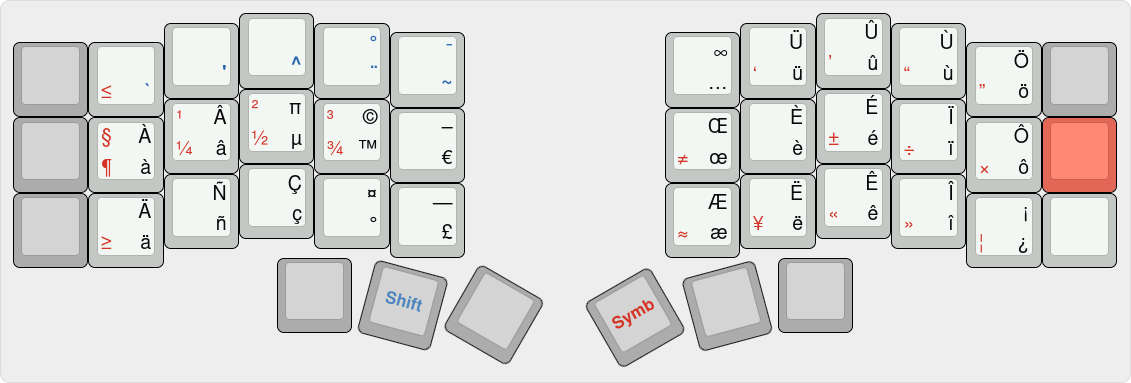
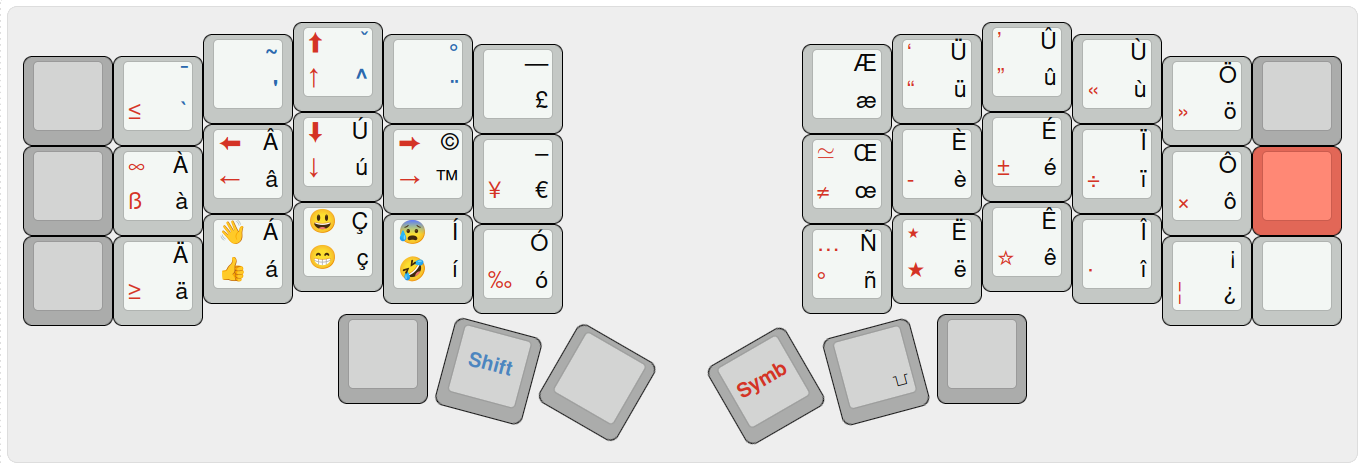
AltGr update.

Changed region(s): [[0.0, 0.0287, 0.9903, 0.9765], [0.9903, 0.0, 1.0, 0.0287], [0.0, 0.0, 0.0309, 0.0287]]

diff --git a/xkb/README_XKB.md b/xkb/README_XKB.md
@@ -1,12 +1,26 @@
 # XKB user configuration
 
+This user-space XKB configuration defines a layout with 8 levels. The base levels are
+unchanged from the default US layout. The other levels are entirely custom.
+
 #### Alternate symbols layout
 
 ![altgr](../img/layout_corne42_altgr.png)
 
+The AltGr symbols (levels 3 and 4), in black in the diagram above, are mostly accented
+characters for French and Spanish. The French accented vowels are grouped around their
+primary characters. The Spanish ones are added where space was available. The layout is
+designed to make sense on a Colemak DH keyboard. When using QWERTY, the groups are broken up.
+
+The levels 5 and 6, in red in the diagram, are extra characters and a few common emojis.
+The Level 5 key is set to `Right Control`.
+
+The levels 7 and 8 are for Greek characters. These levels are accessed by pressing both the 
+keys for Level 3 and Level 5.
+
 #### Installation
 
-### Wayland
+### Wayland & Gnome
 
 Copy the xkb directory to `.config`.
 
@@ -30,7 +44,7 @@ Use `/usr/share/X11/xkb/symbols/us` as a source for the key names.
 
 ### X11
 
-Doesn't work very well!
+I have found the user config to not work very well with X11!
 
 Edit the system file directly: `/usr/share/X11/xkb/symbols/us`.
 

diff --git a/README.md b/README.md
@@ -8,9 +8,11 @@ After using programmable keyboards with QMK or ZMK firmware, the built-in keyboa
 
 ![thinkpad_layout](img/layout_thinkpad.png)
 
-## [XKB user extensions](xkb/README.md)
+## [XKB user extensions](xkb/README_XKB.md)
 
-XKB layouts can be modified by user configuration without modifying system files. See the [XKB page](xkb/README.md).
+XKB layouts can be modified by user configuration without modifying system files. See the [XKB page](xkb/README_XKB.md).
+
+![altgr](img/layout_corne42_altgr.png)
 
 ## run-or-raise Gnome extension
 
@@ -23,7 +25,10 @@ The Compose key must be set to `ScrollLock` in the OS for it to work with the cu
 
 https://help.ubuntu.com/community/GtkComposeTable
 
-`.XCompose` for custom compose sequences.
+Create or edit the `.XCompose` file to add custom compose sequences. The format is as follows:
+```
+<Multi_key> <key>… : "text"
+```
 
 ## QMK keyboard configs
 
